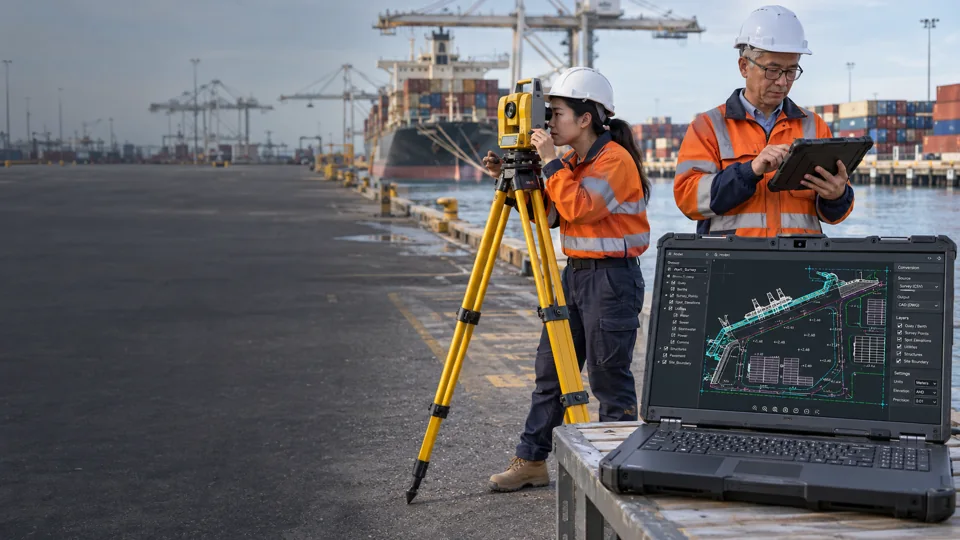
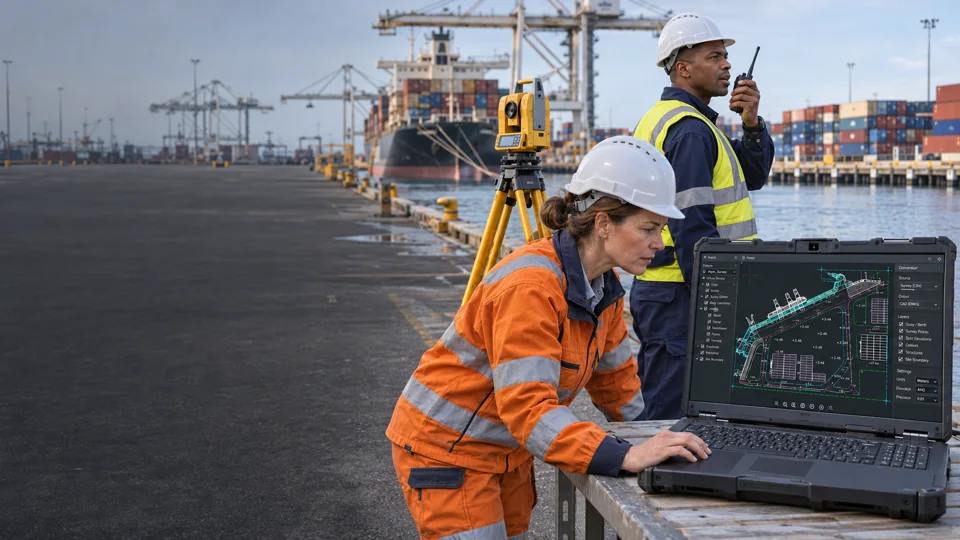
Refresh slideshow survey crews and anonymize sample filenames

diff --git a/website/index.html b/website/index.html
@@ -39,11 +39,11 @@
             <img class="hero-slide" src="assets/surveyor-port.webp"
               srcset="assets/surveyor-port-960.webp 960w, assets/surveyor-port.webp 1672w"
               sizes="100vw"
-              width="1672" height="941" alt="Illustrative port survey with two surveyors, cargo cranes and a laptop showing a synthetic quay plan" aria-hidden="true" />
+              width="1672" height="941" alt="Illustrative port survey with a man using a radio and a woman working at a laptop showing a synthetic quay plan" aria-hidden="true" />
             <img class="hero-slide" src="assets/surveyor-mine.webp"
               srcset="assets/surveyor-mine-960.webp 960w, assets/surveyor-mine.webp 1672w"
               sizes="100vw"
-              width="1672" height="941" alt="Illustrative mining survey with two surveyors overlooking an open-pit mine and a laptop showing a synthetic mine plan" aria-hidden="true" />
+              width="1672" height="941" alt="Illustrative mining survey with a man pointing across the pit, a woman recording measurements in a notebook and a laptop showing a synthetic mine plan" aria-hidden="true" />
             </div>
           </figure>
           <p class="hero-credit">AI-generated scene · synthetic survey · illustrative interface</p>

diff --git a/12daz_design.md b/12daz_design.md
@@ -30,13 +30,13 @@ The ezdxf documentation explicitly supports creating DXF documents and explicitl
 
 ## Available sample and format evidence
 
-The local sample is `sample/1.7 SHRP-SMEC-WGI-RBT-M3D-COMBINED.12daz`.
+The private local sample is stored in the ignored `sample/` directory; its filename is omitted.
 
 Initial inspection only, without a geometry parse:
 
 - Compressed file size: 3,915,027 bytes.
 - ZIP signature: `50 4B 03 04`.
-- Contains one entry: `SHRP-SMEC-WGI-RBT-M3D-COMBINED.12da`.
+- Contains one `.12da` entry; its filename is omitted.
 - Declared uncompressed size: 88,923,538 bytes.
 - Payload starts with a UTF-16 little-endian BOM and `null null`, followed by archive comments.
 
